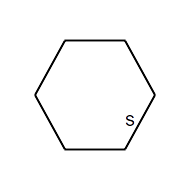
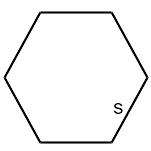
Updated geometry figures to fill images. Added more geology questions. Fixed up htmlTable() function in Support.js.

Changed region(s): [[0.0, 0.053, 1.0, 0.9536]]

diff --git a/Geography.js b/Geography.js
@@ -209,6 +209,44 @@ Q.setAnswer(3);
 B = S.addBlock("Bloque 2");
 
 Q = B.addQuestion("choice");
+Q.addText("Nombre de las placas tectónicas que están relacionadas con la actividad sísmica y volcánica de Japón.");
+Q.addOption("Africana e Indoaustraliana.");
+Q.addOption("Indoaustraliana y Arábiga.");
+Q.addOption("Eurasiática y Pacífica.");
+Q.addOption("Cocos y Caribe.");
+Q.setAnswer(2);
+
+Q = B.addQuestion("choice");
+Q.addText("Capa interna de la Tierra donde se encuentran las placas tectónicas.");
+Q.addOption("Manto interior.", "Núcleo.", "Corteza terrestre.", "Astenósfera.");
+Q.setAnswer(3);
+
+Q = B.addQuestion("choice");
+Q.addText("Sistema de relieve formado a causa del tectonismo en la que se encuentra el punto más alto de la Tierra.");
+Q.addOption("Alpes.", "Himalaya.", "Pirineos.", "Sierra Madre Occidental.");
+Q.setAnswer(1);
+
+Q = B.addQuestion("choice");
+Q.addText("Tipo de erosión más frecuente en los desiertos.");
+Q.addOption("Fluvial.", "Eólica.", "Pluvial.", "Karstica.");
+Q.setAnswer(1);
+
+Q = B.addQuestion("choice");
+Q.addText("Mar que favorece el transporte entre continentes.");
+Q.addOption("Mediterráneo.", "Cortés.", "Del Norte.", "Atlántico.");
+Q.setAnswer(0);
+
+Q = B.addQuestion("choice");
+Q.addText("Ríos que son fronteras de México.");
+Q.addOption("Suchiate y Bravo.", "Usumacinta y Pánuco.", "Coatzacoalcos y Grijalva.", "Hondo y Lerma.");
+Q.setAnswer(0);
+
+Q = B.addQuestion("choice");
+Q.addText("Países cuyo clima es cálido debido a su latitud.");
+Q.addOption("Argentina y México.", "Estados Unidos y Canadá.", "India y Brasil.", "Sudáfrica y Uruguay.");
+Q.setAnswer(2);
+
+Q = B.addQuestion("choice");
 Q.addText("El origen de la cordillera de los Andes en América del Sur se relaciona con");
 Q.addOption("los límites de placas tectónicas.");
 Q.addOption("las zonas de sismicidad");
@@ -252,11 +290,69 @@ Q.addOption("el movimiento de traslación y la inclinación del eje terrestre.")
 Q.addOption("el movimiento de rotación y la inclinación del eje terrestre.");
 Q.setAnswer(1);
 
+Q = B.addQuestion("choice");
+Q.addText("Elige la opción que completa de la forma más adecuada la siguiente frase: El ciclo del agua es");
+Q.addOption("la forma en la que el agua escurre hasta llegar al mar.");
+Q.addOption("la manera en la que el agua circula por la superficie del planeta y escurre hasta los océanos.");
+Q.addOption("el proceso por medio del cual el agua circula entre la litosfera, la atmósfera y la hidrosfera.");
+Q.addOption("un proceso que implica la evaporación y la lluvia.");
+Q.setAnswer(2);
+
+Q = B.addQuestion("choice");
+Q.addText("México es considerado primer lugar en su diversidad de");
+Q.addOption("reptiles", "mamíferos", "peces", "aves");
+Q.setAnswer(0);
+
+Q = B.addQuestion("choice");
+Q.addText("La distribución de los climas y en consecuencia las regiones naturales que caracterizan se deben a la latitud y la _______.");
+Q.addOption("altitud", "incidencia de la luz de Sol", "inclinación del eje terrestre", "longitud");
+Q.setAnswer(0);
+
+Q = B.addQuestion("choice");
+Q.addText("¿Por sus condiciones naturales ¿Qué entidad recibe mayor cantidad de precipitación?");
+Q.addOption("Tamaulipas", "San Luis Potosí", "Yucatán", "Tabasco");
+Q.setAnswer(3);
+
+Q = B.addQuestion("choice");
+Q.addText("Tipo de cuenca del río que desemboca en un lago, presa o laguna:");
+Q.addOption("parteaguas.", "arreica.", "exorreica.", "endorreica.");
+Q.setAnswer(2);
+
+Q = B.addQuestion("choice");
+Q.addText("El agua se presenta en tres estados: líquido, gaseoso y sólido.");
+Q.addText("Tambien puede ser salada o dulce.");
+Q.addText("¿Cuál es la reserva de agua dulce más importante de la Tierra?");
+Q.addOption("Los mantos acuíferos.", "Los lagos.", "Los ríos.", "Los polos y glacieres.");
+Q.setAnswer(3);
+
+Q = B.addQuestion("choice");
+Q.addText("La principal región volcánica en México se conforma por el Sistema Volcánico Transversal, que se extiende desde _______ hasta _______.");
+Q.addOption("Nayarit / Veracruz.", "Sonora / Chiapas.", "Chihuahua / Tabasco.", "Michoacán / Puebla.");
+Q.setAnswer(0);
+
 /******************************************************************************\
 								Block 3 
 \******************************************************************************/
 
 B = S.addBlock("Bloque 3");
+
+Q = B.addQuestion("choice");
+Q.addText("Continente con mayor número de habitantes");
+Q.addOption("América.", "África.", "Asia.", "Europa.");
+Q.setAnswer(2);
+
+Q = B.addQuestion("choice");
+Q.addText("Principal causa de la concentración de la población en las ciudades.");
+Q.addOption("Falta de escuelas en los pueblos.");
+Q.addOption("Mejor oportunidad de empleo en las ciudades.");
+Q.addOption("Cercanía entre las ciudades y los pueblos.");
+Q.addOption("Mejores servicios médicos en las ciudades.");
+Q.setAnswer(1);
+
+Q = B.addQuestion("choice");
+Q.addText("Son los tres países más poblados del mundo.");
+Q.addOption("China, India y Japón.", "China, India y Estados Unidos de Ámerica.", "China, Pakistán e India.", "China, India y Alemania.");
+Q.setAnswer(1);
 
 Q = B.addQuestion("choice");
 Q.addText("¿Cuál opción  explica mejor la principla causa de pérdida de identidad nacional en los países?");
@@ -265,6 +361,18 @@ Q.addOption("La gente se interesa más por lo que sucede en el resto del mundo."
 Q.addOption("La llegada de habitantes de otros países infuluye en la cultura propia.");
 Q.addOption("La cultura de otros países es más rica que la del país de orígen.");
 Q.setAnswer(0);
+
+var hdr = ["Opción", "Entidad", "Población", "Superficie (km<SUP>2</SUP>)"];
+var data = [];
+data[0] = ["a", "Nuevo León", 4653458, 64156];
+data[1] = ["b", "Tlaxcala", 1169936, 3997];
+data[2] = ["c", "Estado de México", 15175862, 22351];
+data[3] = ["d", "Morelos", 1777227, 4879];
+
+Q = B.addQuestion("string");
+Q.addText("¿Qué entidad tiene una mayor <I>densidad</I> de población?");
+Q.addText(htmlTable(hdr, data));
+Q.setAnswer("c");
 
 Q = B.addQuestion("choice");
 Q.addText("Muchos países del mundo tienen una gran diversidad cultural gracias a la presencia");
@@ -275,7 +383,7 @@ Q.addOption("de étnias, lenguas y religones.");
 Q.setAnswer(3);
 
 Q = B.addQuestion("choice");
-Q.addText("Son las tres entidades más pobladas de México");
+Q.addText("Son las tres entidades más pobladas de México.");
 Q.addOption("Estado de México, Distrito Federal y Jalisco.");
 Q.addOption("Distrito Federal, Jalisco y Nuevo León.");
 Q.addOption("Estado de México, Distrito Federal y Veracruz.");
@@ -343,10 +451,34 @@ B = S.addBlock("Bloque 4");
 
 Q = B.addQuestion("choice");
 Q.addText("Organismo que se encarga de regir el comercio internacional."),
-Q.addOption("FMI.", "OMC", "ONU", "Banco Mundial"),
+Q.addOption("FMI", "OMC", "ONU", "Banco Mundial"),
 Q.setAnswer(1);
 
 Q = B.addQuestion("choice");
 Q.addText("Entidades federativas que desarrollan el turismo histórico como el principal tipo de turismo."),
-Q.addOption("Yucatán y Guerrero.", "Jalisco y Nuevo León", "Guanajuato y Puebla", "Distrito Federal y Yucatán"),
+Q.addOption("Yucatán y Guerrero", "Jalisco y Nuevo León", "Guanajuato y Puebla", "Distrito Federal y Yucatán"),
 Q.setAnswer(2);
+
+Q = B.addQuestion("choice");
+Q.addText("Principal socio comercial de México."),
+Q.addOption("China", "España", "Estados Unidos de América", "Brasil"),
+Q.setAnswer(2);
+
+Q = B.addQuestion("choice");
+Q.addText("Gran productor de petróleo, en comparación con los países de la región en la que se ubica."),
+Q.addOption("Libia", "Arabia Saudita", "Irán", "Venezuela"),
+Q.setAnswer(3);
+
+Q = B.addQuestion("multiple");
+Q.addText("Las <B>dos</B> transacciones que favorecen los ingresos de divisas al país son:"),
+Q.addOption("<B>El petróleo</B>: debido a que es un energético de fácil obtención y comercialización");
+Q.addOption("<B>Las remesas</B>: envíos de dinero desde el extranjero al interior del país");
+Q.addOption("<B>El turismo</B>: México cuenta con diversos espacios turísticos de fama mundial como Chichén Itzá");
+Q.addOption("<B>La industria maquiladora</B>: predomina en las entidades fronterizas");
+Q.setAnswer([0, 1]);
+
+Q = B.addQuestion("choice");
+Q.addText("Las entidades federativas con mayor producción de carne de res son:"),
+Q.addOption("Querétaro y Durango", "Michoacán y Jalisco", "Aguascalientes y Durango", "Veracruz y Jalisco"),
+Q.setAnswer(3);
+

diff --git a/Practica.js b/Practica.js
@@ -245,7 +245,9 @@ function showQuestion()
 		qGroup.innerHTML = "";
 
     qTitle.innerHTML = "Pregunta " + (CurrQuestion + 1);
-    qText.innerHTML = Q.text + htmlList(Q.options, Q.map)
+    qText.innerHTML = Q.text;
+	if(Q.options.length > 0)
+		qText.innerHTML += htmlList(Q.options, Q.map)
     qResult.innerHTML ="Ingresa tu respuesta.";
 
     qInput.value = "";
@@ -457,8 +459,8 @@ function Practica()
     qText = document.createElement("P");
     qBox.appendChild(qText);
 
-    var br = document.createElement("BR");
-    qBox.appendChild(br);
+    //var br = document.createElement("BR");
+    //qBox.appendChild(br);
 
     qInput = document.createElement("INPUT");
     qInput.type = "text";

diff --git a/Support.js b/Support.js
@@ -103,21 +103,24 @@ function htmlList(arr, map)
 	return(list);
 }
 
-function htmlTable(arr)
+function htmlTable(hdr, arr)
 {
 	var i, j;
 	var nr = arr.length;
 	var nc = arr[0].length;
 
-	var table = "<TABLE border=1>";
+	var table = "<TABLE CLASS='qt'>";
 
-	table += "<TR><TD>Ingrediente</TD><TD>Peso (kg)</TD></TR>";
+	table += "<TR>";
+	for(j=0; j<nc; j++)
+		table += ("<TH CLASS='qt'>" + hdr[j] + "</TH>");
+	table += "</TR>";
 
-	for(i=1; i<nr; i++)
+	for(i=0; i<nr; i++)
 	{
 		table += "<TR>";
 		for(j=0; j<nc; j++)
-			table += "<TD>" + arr[i][j] + "</TD>";
+			table += ("<TD CLASS='qt'>" + arr[i][j] + "</TD>");
 		table += "</TR>";
 	}
 	table += "</TABLE>";

diff --git a/Math.js b/Math.js
@@ -79,11 +79,11 @@ Q.userInit = function()
 			minind = i;
 	}
 
-	var tstr = htmlTable(items);
+	var tstr = htmlTable(["Ingrediente", "Peso (Kg)"], items);
 	
 	this.addText(getRandElem(Names) + " y su hermana tienen un negocio de paella y necesitan algunos ingredientes que les falta.");
 	this.addText("¿Cuál es el ingrediente que tiene menor peso?");
-	this.addText("<BR><BR>" + tstr);
+	this.addText(tstr);
 
 	this.setAnswer(ingreds[minind]);
 }

diff --git a/Practica.css b/Practica.css
@@ -1,5 +1,6 @@
 
-.frac { display: inline-block;
+.frac {
+	display: inline-block;
     position: relative;
     vertical-align: middle;
     letter-spacing: 0.001em;
@@ -22,3 +23,15 @@ html * {font-family: arial, sans-serif}
 td {border-radius: 5px}
 
 table {width: 50%}
+
+img {padding: 1em}
+
+table.qt {
+	border-collapse: collapse;
+    margin: 1em;
+}
+
+th.qt, td.qt {
+	border: 1px solid #777777;
+	border-radius: 0px;
+}
